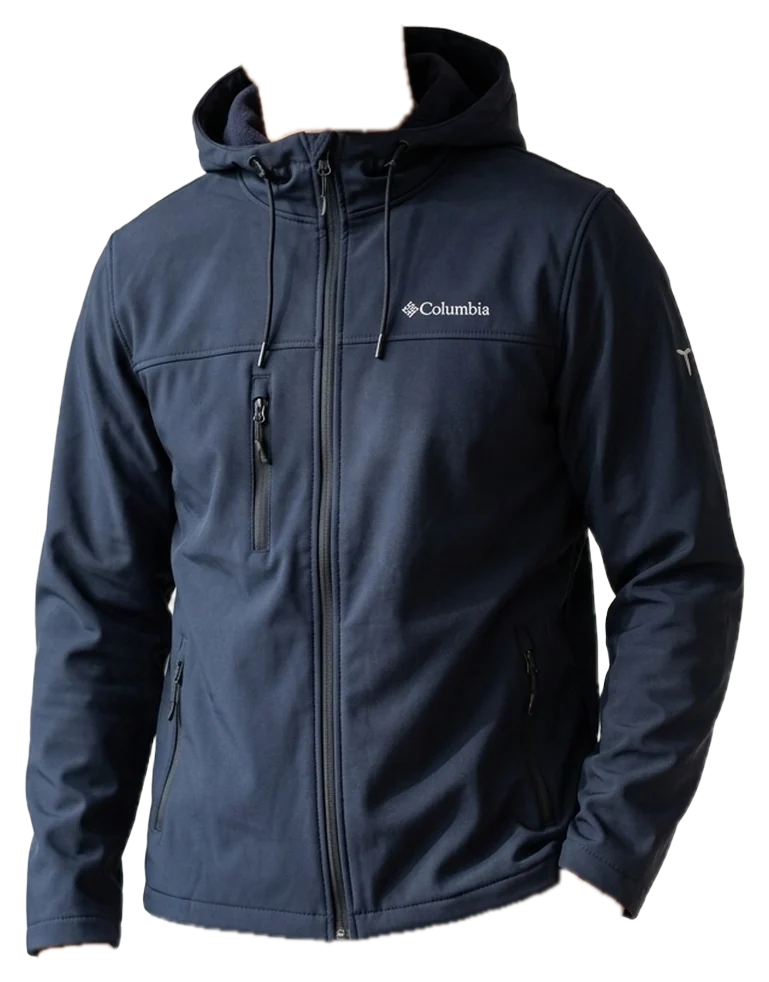
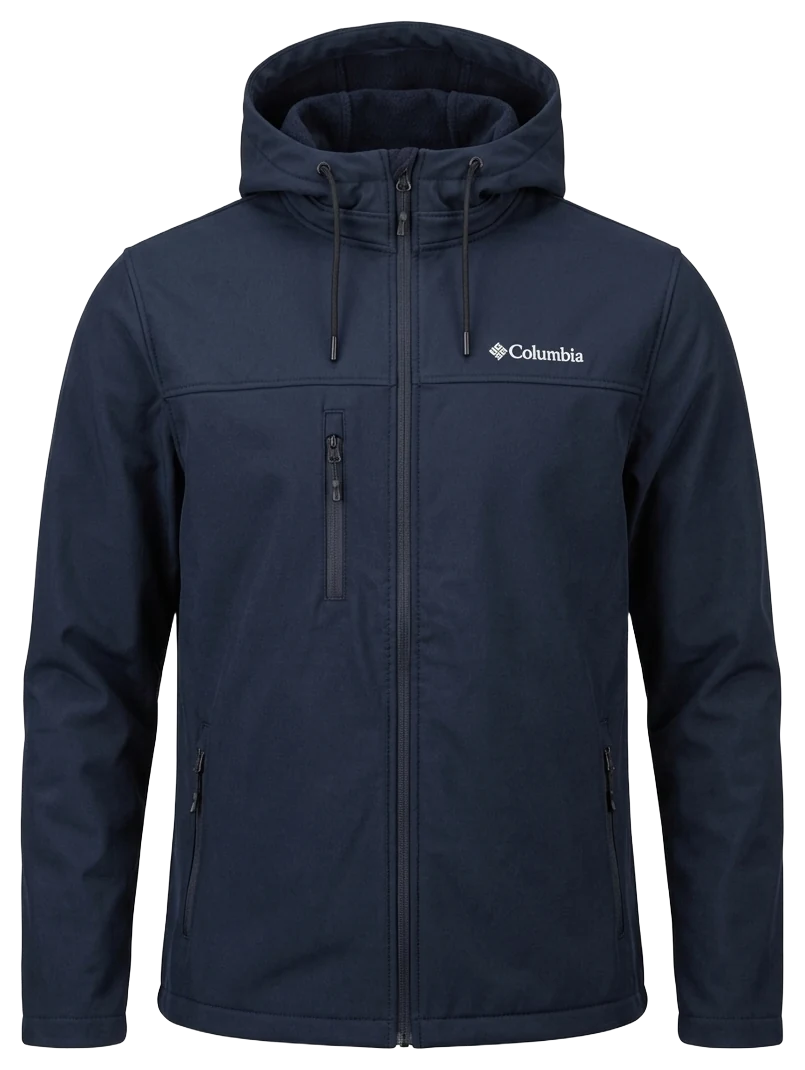
DSG: 3 ürüne Flow ile yeni görseller (ön/yan/havalı), pazar tüneline eklendi

diff --git a/index.html b/index.html
@@ -178,6 +178,7 @@ nav .ara-ac{font-size:28px!important;padding:18px 36px!important;letter-spacing:
 <div id="ara"><div class="ara-bas"><a class="hp-logo" href="hit.html" aria-label="Hit Pazarı"><span class="hp-c" aria-hidden="true">//</span><span class="hp-a">HİT PAZARI</span></a><b>Ara</b></div><div class="ust2"><input id="araKutu" type="search" placeholder="Ürün ara: plak, tablo, porselen…" autocomplete="off"><button class="kapat" id="araKapat">Kapat</button></div>
 <div class="katlar" id="katlar"></div><div class="sonuc" id="sonuc"></div></div>
 <script src="veri/urunler.js"></script>
+<script src="veri/dukkan2.js"></script>
 <script src="veri/aspect.js"></script>
 <script src="veri/galeri.js"></script>
 <script src="veri/kategoriler.js"></script>
@@ -194,9 +195,11 @@ if(KFILTRE&&KFILTRE.length){document.querySelector('nav .logo').textContent=KSEC
   const kg=document.getElementById('kgiris');document.getElementById('kgAd').textContent=KSEC;document.getElementById('kgImg').src='kaynak/web/'+((typeof KATEGORI_IKON!=='undefined'&&KATEGORI_IKON[KSEC])||KFILTRE[0][0])+'.webp';kg.classList.add('on');
   // giriş: tabela ortada, kamera kendiliğinden içeri süzülür; tabela büyüyüp kaybolur, ürünler derinden belirir
   setTimeout(()=>{if(target<10)target=520},450);setTimeout(function izle(){if(camZ>110){kg.classList.add('off');return}requestAnimationFrame(izle)},0)}
+// Pazar modunda diğer dükkânın (DSG) tünele hazır ürünleri de karışır: kimlik 'd2:<id>', görsel kendi yolundan
+const GOR={},D2T=[];if(KPAZAR&&typeof DUKKAN2!=='undefined')DUKKAN2.urunler.filter(x=>x.tunel).forEach(x=>{const id='d2:'+x.id;GOR[id]=x.gorsel;if(x.oran)ASPECT[id]=x.oran;D2T.push([id,x.ad,x.aciklama||'',x.kategori])});
 const KAYNAK=KMOD?(()=>{const L=[],ks=Object.keys(KATEGORI_IKON);
   const uy=k=>URUNLER.filter(u=>KATEGORI[u[0]]===k&&u[0]!==KATEGORI_IKON[k]).map(u=>u[0]);
-  for(let t=0;t<8;t++)ks.forEach(k=>{const d=uy(k);const id=t===0||!d.length?KATEGORI_IKON[k]:d[(t-1)%d.length];L.push([id,k,'Bu kategorideki ürünleri gör','—'])});return L})():(KFILTRE&&KFILTRE.length?KFILTRE:KPAZAR?(()=>{const L=URUNLER.slice();for(let i=L.length-1;i>0;i--){const j=Math.floor(Math.random()*(i+1));[L[i],L[j]]=[L[j],L[i]]}return L})():URUNLER);
+  for(let t=0;t<8;t++)ks.forEach(k=>{const d=uy(k);const id=t===0||!d.length?KATEGORI_IKON[k]:d[(t-1)%d.length];L.push([id,k,'Bu kategorideki ürünleri gör','—'])});return L})():(KFILTRE&&KFILTRE.length?KFILTRE:KPAZAR?(()=>{const L=URUNLER.concat(D2T);for(let i=L.length-1;i>0;i--){const j=Math.floor(Math.random()*(i+1));[L[i],L[j]]=[L[j],L[i]]}return L})():URUNLER);
 if(KPAZAR){document.querySelector('nav .logo').textContent='Pazar';document.title='Hit Pazarı · Pazar';setTimeout(()=>{if(target<10)target=520},250)}
 if(KMOD){document.querySelector('nav .logo').textContent='Kategoriler';document.getElementById('end').textContent='kategoriler';document.title='Hit Pazarı · Kategoriler';document.querySelector('#card .go').textContent='Ürünleri gör →'}
 // Her ürüne tünelde bir yer: z (derinlik), x/y (yana ofset), boyut. Deterministik dağılım.
@@ -214,7 +217,7 @@ function boyut(){DPR=Math.min(window.devicePixelRatio||1,1.5);VW=innerWidth;VH=i
 boyut(); addEventListener('resize',boyut);
 // --- görseller: her ürün bir kez yüklenir, alfa haritası çıkarılır ---
 const IMG={}, ALPHA={}, KOPYA={};
-KAYNAK.forEach(u=>{ if(IMG[u[0]])return; const im=new Image(); im.src=`kaynak/web/${u[0]}.webp`; IMG[u[0]]=im;
+KAYNAK.forEach(u=>{ if(IMG[u[0]])return; const im=new Image(); im.src=GOR[u[0]]||`kaynak/web/${u[0]}.webp`; IMG[u[0]]=im;
   im.decode().then(()=>{const c=document.createElement('canvas');c.width=c.height=48;const x=c.getContext('2d');x.drawImage(im,0,0,48,48);ALPHA[u[0]]=x.getImageData(0,0,48,48).data;
     // küçük kopyalar: uzaktaki ürün büyük resimden değil küçük kopyadan çizilir (takılmayı önler)
     const L=[];for(const m of [96,192,384,640]){const s=m/Math.max(im.naturalWidth,im.naturalHeight);if(s>=1)break;const k=document.createElement('canvas');k.width=Math.max(1,Math.round(im.naturalWidth*s));k.height=Math.max(1,Math.round(im.naturalHeight*s));k.getContext('2d').drawImage(im,0,0,k.width,k.height);L.push(k)}
@@ -313,7 +316,7 @@ let lx=-1,ly=-1;
 function hover(){if(lx<0)return;let o=pick(lx,ly);if(!o&&nearHot(lx,ly))o=hot;setHot(o)}
 addEventListener('mousemove',e=>{lx=e.clientX;ly=e.clientY;hover()});
 setInterval(hover,90);
-cv.addEventListener('click',e=>{const o=pick(e.clientX,e.clientY);if(o){if(KMOD){target=clamp(camZ+1600);document.getElementById('kperde').classList.add('on');setTimeout(()=>location.href='index.html?kat='+encodeURIComponent(o.u[1]),620)}else location.href=innerWidth>=900?'urun.html?id='+encodeURIComponent(o.u[0]):desteAdres(o.u[0])}});   // bilgisayarda web ürün sayfası, telefonda kart destesi
+cv.addEventListener('click',e=>{const o=pick(e.clientX,e.clientY);if(o){if(KMOD){target=clamp(camZ+1600);document.getElementById('kperde').classList.add('on');setTimeout(()=>location.href='index.html?kat='+encodeURIComponent(o.u[1]),620)}else location.href=innerWidth>=900||o.u[0].startsWith('d2:')?'urun.html?id='+encodeURIComponent(o.u[0]):desteAdres(o.u[0])}});   // bilgisayarda web ürün sayfası, telefonda kart destesi
 // ürüne dokununca kart destesi (Geç / Teklif / Satın al / Beğen) o üründen başlar: telefon uygulamasının destesi
 document.getElementById('desteAc').onclick=e=>{e.preventDefault();location.href=desteAdres((items.find(it=>it.dz>-1500&&it.dz<200)||items[0]).u[0])};
 if(KMOD)document.getElementById('desteAc').hidden=true;

diff --git a/urun.html b/urun.html
@@ -104,7 +104,7 @@ const id=new URLSearchParams(location.search).get('id');
 const D2=id&&id.startsWith('d2:')&&typeof DUKKAN2!=='undefined'?DUKKAN2.urunler.find(x=>'d2:'+x.id===id):null;
 const SATICI=D2?'dukkan2':'halalar';
 const u=D2?['d2:'+D2.id,D2.ad,D2.aciklama||'','—']:(URUNLER.find(x=>x[0]===id)||URUNLER[0]);
-const fotolar=D2?[D2.gorsel]:[`kaynak/web/${u[0]}.webp`].concat(((typeof GALERI!=='undefined'&&GALERI[u[0]])||[]).map(g=>`kaynak/web/${g}.webp`));
+const fotolar=D2?(D2.gorseller||[D2.gorsel]):[`kaynak/web/${u[0]}.webp`].concat(((typeof GALERI!=='undefined'&&GALERI[u[0]])||[]).map(g=>`kaynak/web/${g}.webp`));
 if(D2){const l=document.querySelector('nav .logo');l.textContent=DUKKAN2.ad;l.href='dukkan.html';const b=document.querySelector('nav .back');b.textContent='← '+DUKKAN2.ad;b.href='dukkan.html';if(D2.fiyat)document.getElementById('bTeklif').hidden=true}
 const ana=document.getElementById('img');ana.src=fotolar[0];
 const kat=D2?(D2.kategori||''):((typeof KATEGORI!=='undefined'&&KATEGORI[u[0]])||'');

diff --git a/veri/dukkan2.js b/veri/dukkan2.js
@@ -256,6 +256,9 @@ const DUKKAN2={
 "kategori": "Alt giyim",
 "fiyat": 0,
 "gorsel": "kaynak/dsg/18_kot_mavi_slim.webp",
+"oran": 0.439,
+"gorseller": ["kaynak/dsg/18_kot_mavi_slim.webp", "kaynak/dsg/18_kot_mavi_slim_yan.webp", "kaynak/dsg/18_kot_mavi_slim_art.webp"],
+"tunel": true,
 "stok": 1
 },
 {
@@ -472,6 +475,9 @@ const DUKKAN2={
 "kategori": "Üst giyim",
 "fiyat": 0,
 "gorsel": "kaynak/dsg/39_sweat_beyaz_puma.webp",
+"oran": 0.804,
+"gorseller": ["kaynak/dsg/39_sweat_beyaz_puma.webp", "kaynak/dsg/39_sweat_beyaz_puma_yan.webp", "kaynak/dsg/39_sweat_beyaz_puma_art.webp"],
+"tunel": true,
 "stok": 1
 },
 {
@@ -625,6 +631,9 @@ const DUKKAN2={
 "kategori": "Dış giyim",
 "fiyat": 0,
 "gorsel": "kaynak/dsg/61_mont_lacivert.webp",
+"oran": 0.752,
+"gorseller": ["kaynak/dsg/61_mont_lacivert.webp", "kaynak/dsg/61_mont_lacivert_yan.webp", "kaynak/dsg/61_mont_lacivert_art.webp"],
+"tunel": true,
 "stok": 1
 },
 {
